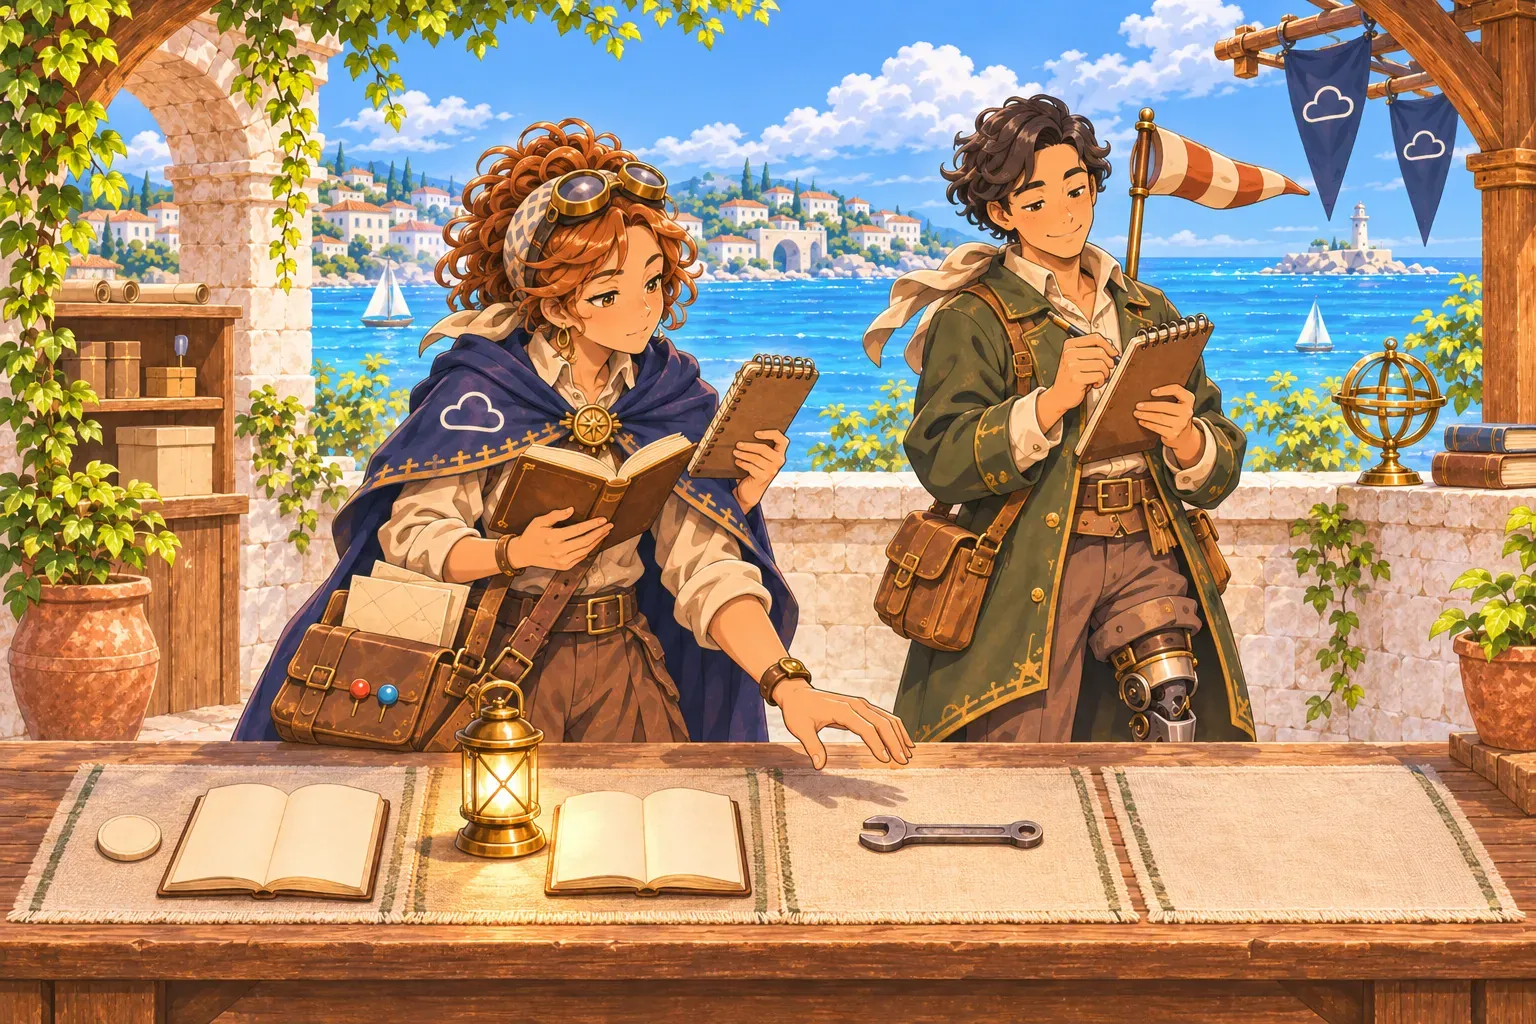
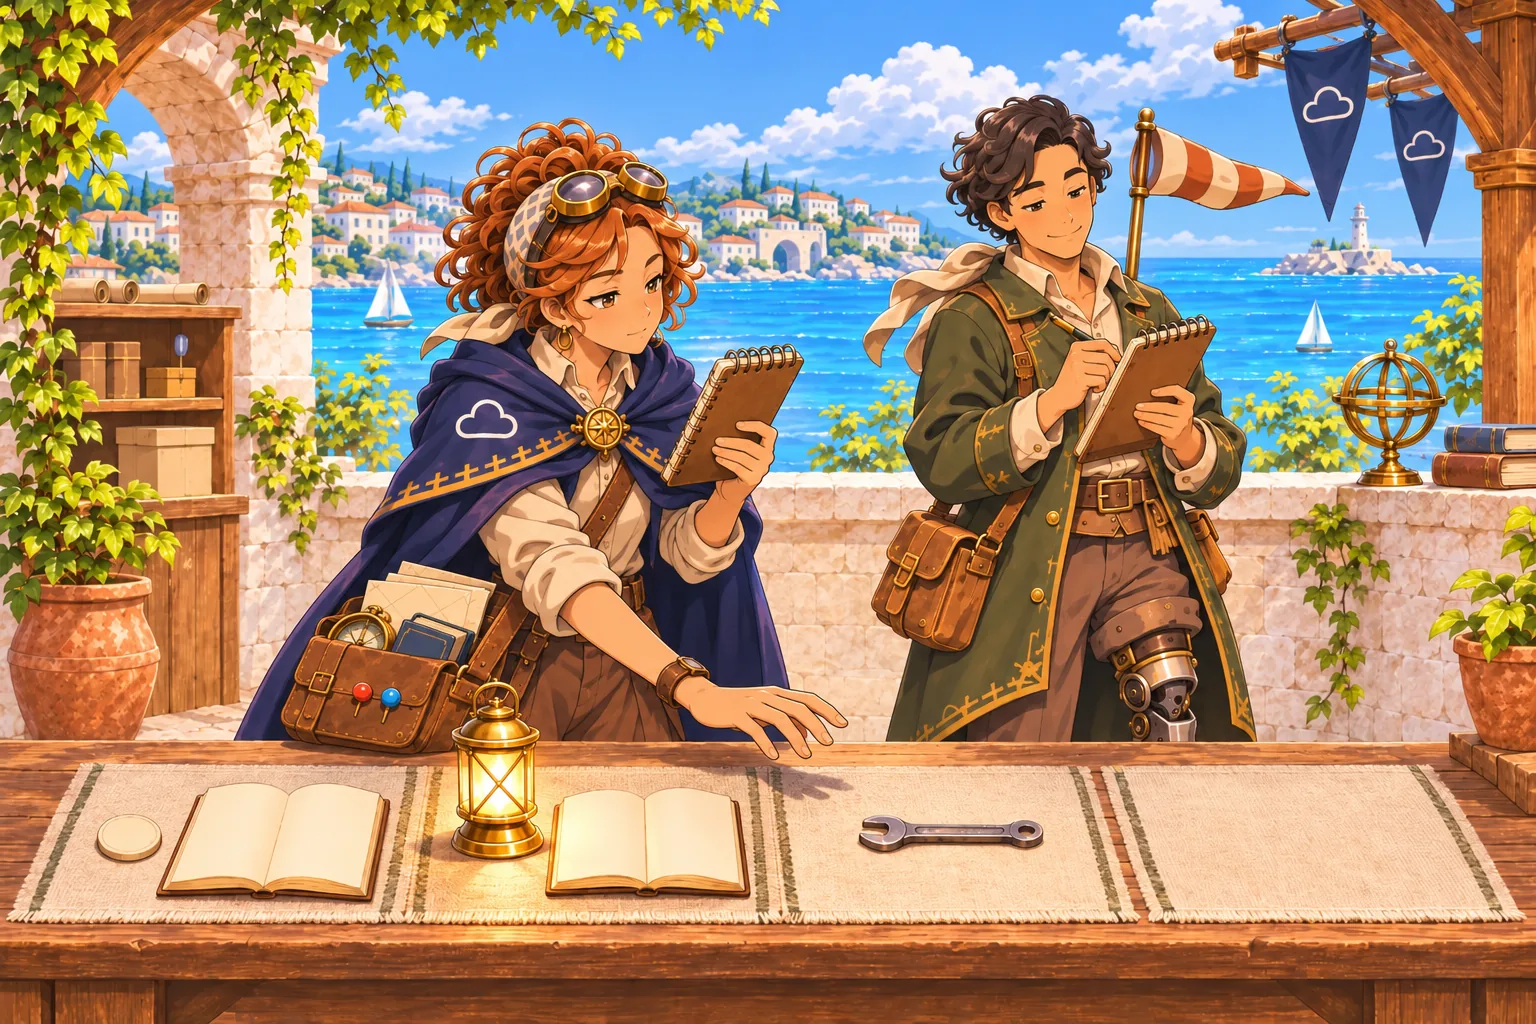
VM runbooks: replace the "observe before acting" illustration (#43)
* Link the book from the home page of the portal

The book is published at https://book.ozarland.com/, as a story in which
LUMO crosses the archipelago of control. The home page said it would be
linked once published: it now says what the book is and opens it.

* State the current licence of the book in the Operator skills

The book OpenStack, the Day After Tomorrow is now under the Apache
License 2.0, in OzarLand/openstack-the-day-after-tomorrow, and published
at https://book.ozarland.com/. The skills still said it was under
CC BY-NC-ND 4.0, at its former address.

- NOTICE and the home page of the module: the book is under the Apache
  License 2.0; the citation and the source line give its new address.
- shared/operating-principles.md, and its nine copies regenerated by
  tools/sync_shared.py: the source of the principles is the book's site.
- docs/design.md: the licensing note says what the licence was when the
  skills were written and what it is now.
- docs/knowledge-map.md: the repository that was read is named at its
  new address (same commit).

* Add LUMO's village, stop 0 of the learning path

A prelude for complete beginners, before the Quick lab: the basic
concepts of OpenStack told as a story. LUMO, an apprentice builder, builds
a village for Neri, its first inhabitant, and learns in sixteen scenes why
each piece of a cloud exists: control and data planes, Kolla-Ansible,
Keystone, projects and quotas, compute hosts, Placement and the scheduler,
[…]

diff --git a/docs/runbooks/index.md b/docs/runbooks/index.md
@@ -34,7 +34,7 @@ No imposed tools, no single way of operating OpenStack.
 
 ## 🧭 How a runbook works
 
-<img src="assets/images/S4-observe-before-acting.webp" width="1536" height="1024" loading="lazy" alt="At a table with two open books and a wrench, LUMO lays a hand on the table without touching the tool while Ren writes in an observation notebook.">
+<img src="assets/images/S4-observe-before-acting.webp" width="1536" height="1024" loading="lazy" alt="At a workbench with two open blank notebooks, a lit brass lantern and a wrench, LUMO reads a field notebook and holds the other hand open above the table without touching the tool, while Ren writes in an observation notebook.">
 
 Each runbook follows the shared [runbook structure](https://github.com/OzarLand/ozarland/blob/main/docs/conventions/runbook-structure.md):
 
